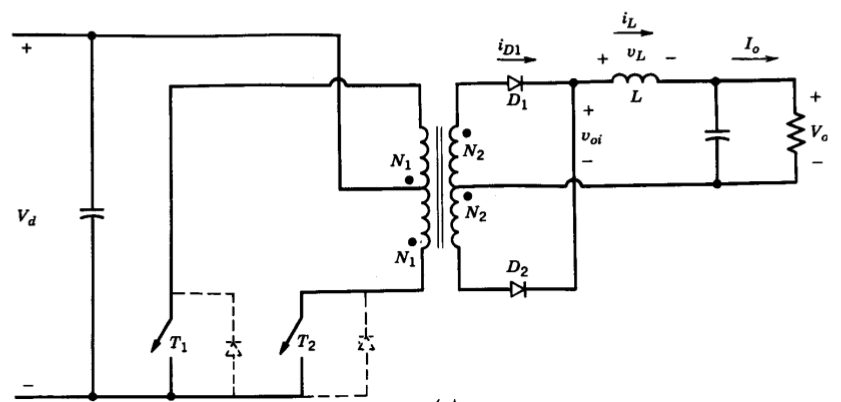
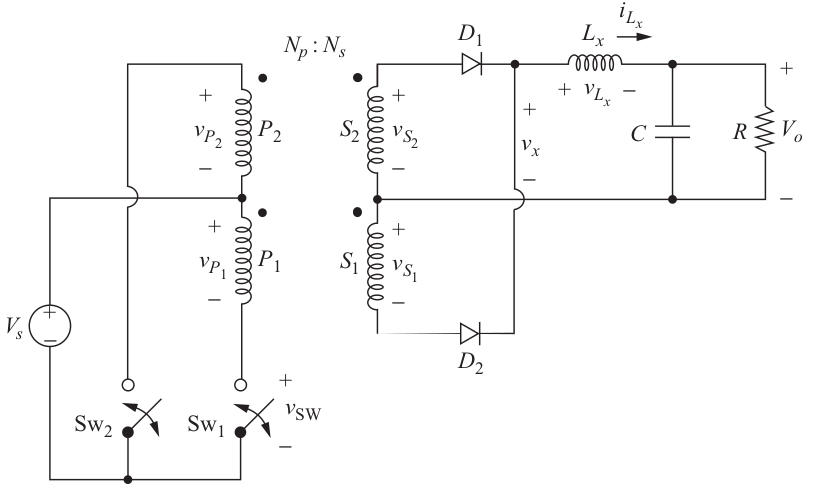
push pull, winding

diff --git a/presentations/ee464_power_supplies.html b/presentations/ee464_power_supplies.html
@@ -343,7 +343,7 @@ Minimum EMI Problems
 ### Suggested Reading: [Flyback Converter Snubber Design](http://ridleyengineering.com/images/phocadownload/12%20flyback%20snubber%20design.pdf)
 
 ---
-# Pratical Forward Converter
+# Practical Forward Converter
 
 <img src="./images/ee464/practical_forward.png" alt="Drawing" style="width: 800px;">
 
@@ -351,14 +351,14 @@ Minimum EMI Problems
 
 ---
 
-# Pratical Forward Converter
+# Practical Forward Converter
 
 <img src="./images/ee464/practical_forward_Lm.png" alt="Drawing" style="width: 800px;">
 
 ## A transformer with two-primary windings
 ---
 
-# Pratical Forward Converter
+# Practical Forward Converter
 
 ## Switch is ON
 
@@ -371,7 +371,7 @@ Minimum EMI Problems
 - ### D3 Off 
 ---
 
-# Pratical Forward Converter
+# Practical Forward Converter
 
 ## Switch is OFF
 
@@ -387,12 +387,12 @@ Minimum EMI Problems
 
 ### For proper operation the transformer should be "reset" before next ON period
 ---
-# Pratical Forward Converter
+# Practical Forward Converter
 
 <img src="./images/ee464/forward_waveform.png" alt="Drawing" style="width: 600px;">
 
 ---
-# Pratical Forward Converter
+# Practical Forward Converter
 ### For proper operation the transformer should be "reset" before next ON period
 
 ## \\(t\_m < (1-D) T\_s\\)
@@ -422,7 +422,7 @@ Minimum EMI Problems
 - ## A gapless core can be used (higher Lm, less ripple)
 --
 
-- ## Output inductor and diode ensures continious output current
+- ## Output inductor and diode ensures continuous output current
 
 ---
 # Drawbacks compared to Flyback
@@ -509,42 +509,27 @@ Minimum EMI Problems
 ---
 # Push-Pull Converter
 
+
+<img src="./images/ee464/push_pull_operation_modes.png" alt="Drawing" style="width: 750px;">
+
+### Three operating sections
+
+
+---
+# Push-Pull Converter
+
 ## Switch(T1) ON, Switch(T2) OFF
 
 ### D1 conducts, D2 reverse-biased
 --
 
-### \\(v\_{oi}= \dfrac{N\_2}{N\_1} V\_d \\)
+### \\(v\_{x}= \dfrac{N\_2}{N\_1} V\_s \\)
 --
 
-### \\(v\_{L}= v\_{oi} - V\_o = \dfrac{N\_2}{N\_1} V\_d - V\_o  \\)
+### \\(v\_{L}= v\_{x} - V\_o = \dfrac{N\_2}{N\_1} V\_s - V\_o  \\)
 
 
 ### \\(i\_L\\) increases linearly
----
-# Push-Pull Converter
-
-<img src="./images/ee464/push_pull_operation.png" alt="Drawing" style="width: 750px;">
-
----
-
-# Push-Pull Converter
-
-## Switches(T1 and T2) OFF
-### For a period of \\(\Delta\\)
---
-
-### Both D1 and D2 conducts
-
-### \\(I\_{D1} = I\_{D2} = 0.5 I\_{L} \\)
-
-### \\(v\_{oi}= 0 \\)
---
-
-### Therefore \\(v\_{L}= -V\_o  \\)
-
-### Inductor discharges and feeds the load
-
 ---
 
 # Push-Pull Converter
@@ -552,18 +537,46 @@ Minimum EMI Problems
 ## Switch(T2) ON, Switch(T1) OFF
 ### Symmetrical operation with the previous
 
-### \\(v\_{oi}= \dfrac{N\_2}{N\_1} V\_d \\)
+### \\(v\_{x}= \dfrac{N\_2}{N\_1} V\_s \\)
 --
 
-### \\(v\_{L}= v\_{oi} - V\_o = \dfrac{N\_2}{N\_1} V\_d - V\_o  \\)
+### \\(v\_{L}= v\_{x} - V\_o = \dfrac{N\_2}{N\_1} V\_s - V\_o  \\)
 
 
 ### \\(i\_L\\) increases linearly
+
 ---
 
 # Push-Pull Converter
 
-## Repeating waveforms for Ts/2
+## Both Switches are OFF
+### for a period of \\(\Delta\\)
+--
+
+### Both D1 and D2 conducts
+
+### \\(I\_{D1} = I\_{D2} = 0.5 I\_{L} \\)
+
+### \\(v\_{x}= 0 \\)
+--
+
+### Therefore \\(v\_{L}= -V\_o  \\)
+
+### Inductor discharges and feeds the load
+---
+
+
+### Repeating waveforms for every Ts/2
+
+
+<img src="./images/ee464/push_pull_operation2.png" alt="Drawing" style="width: 600px;">
+
+
+---
+
+# Push-Pull Converter
+
+## Repeating waveforms for every Ts/2
 
 ## \\(D T\_s + \Delta = \dfrac{T\_s}{2}  \\)
 

diff --git a/presentations/ee464_magnetic_design.html b/presentations/ee464_magnetic_design.html
@@ -35,13 +35,9 @@ class: center, middle
 # Review of Magnetic Circuits
 --
 
+- ### [Magnetic Materials](http://keysan.me/presentations/ee568_intro.html#190)
 
-
-
-
-- ### [EE564-Transformer Design](http://keysan.me/presentations/ee564_transformer_design.html)
-
-- ### [EE564-Magnetic Materials](http://keysan.me/presentations/ee564_intro2.html)
+- ### [EE564-Transformer Design](http://keysan.me/presentations/ee568_inductor_transformer_design.html)
 
 ---
 
@@ -105,7 +101,7 @@ class: center, middle
 
 <img src="./images/ee464/core_bobbin.jpg" alt="Drawing" style="width: 350px;">
 
-### [Karkas Çeşitleri](http://www.kaptanplastik.com/igneliferit2.php)
+### [Karkas Çeşitleri](http://www.kaptanplastik.com/urunler)
 
 ### [Coil Winding](https://www.youtube.com/watch?v=2ttzm1itctA), [toroidal winding](https://www.youtube.com/watch?v=82PpCzM2CUg)
 ---
@@ -114,7 +110,7 @@ class: center, middle
 
 <img src="./images/ee464/e_core.jpg" alt="Drawing" style="width: 500px;">
 
-### [Nüve Çeşitleri](http://www.ferritnuve.com/eferritnuve.html)
+### [Nüve Çeşitleri](https://www.direnc.net/feritler)
 
 ---
 
@@ -132,9 +128,12 @@ class: center, middle
 
 - ### [EE361-Inductors](http://keysan.me/presentations/ee361_magnetic_energy.html)
 
-- ### [EE564 Design Exercise](http://keysan.me/presentations/ee564_intro2.html#103)
-
 - ### [EE361-Practical Transformers](http://keysan.me/presentations/ee361_practical_transformers.html)
+
+- ### [Magnetic Materials](http://keysan.me/presentations/ee568_intro.html#190)
+
+- ### [EE564-Transformer Design](http://keysan.me/presentations/ee568_inductor_transformer_design.html)
+
 
 ---
 # Winding Design

diff --git a/presentations/ee564_mmf_exercise.html b/presentations/ee564_mmf_exercise.html
@@ -435,7 +435,7 @@ Office: C-113 <span class="meta">&#8226;</span> Tel: 210 7586
 ---
 # Fourier Series
 
-[Google Plot](https://www.google.com/search?q=square+wave+fourier+transform&ie=utf-8&oe=utf-8#q=plot+%28sin%28x%29%2B0.25*sin%283*x%29%2B0.1*sin%285*x%29%29)
+<a href="https://www.google.com/search?q=plot+(sin(x)%2B0.25*sin(3*x)%2B0.1*sin(5*x))">Google Plot</a>
 
 --
 - ## Let's see what happens with a 2/3 under pitched coil?

diff --git a/ee464.md b/ee464.md
@@ -38,10 +38,10 @@ Presentations will be added to [keysan.me/ee464](http://keysan.me/ee464/) weekly
 - Week#1: [Review](/presentations/ee464_review.html)
 - Week#2: [DC/DC cont.](/presentations/ee464_cuk_sepic.html)
 - Week#3: [Regulated Power Supplies](/presentations/ee464_power_supplies.html)
+- Week#5: [Magnetic Design for Power Electronics](/presentations/ee464_magnetic_design.html)
 
 <!--
 
-- Week#5: [Magnetic Design for Power Electronics](/presentations/ee464_magnetic_design.html)
 - Week#6: [Half/Full Bridge Converters](/presentations/ee464_bridge_converters.html)
 - Week#7: [Controller Design](/presentations/ee464_controller_design.html)
 - Week#8: [PFC, Inverters](/presentations/ee464_pfc_inverters.html)
